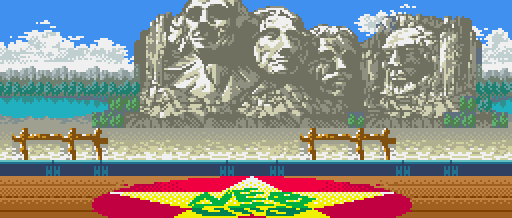
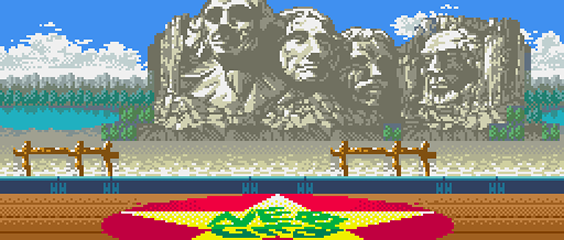
sdvdv

diff --git a/Game/fight.cpp b/Game/fight.cpp
@@ -5,14 +5,14 @@
 
 void Fight::Begin()
 {
-	ScreenScale = (Framework::System->GetDisplayHeight() / 218.0f); // 109.0f);
+	ScreenScale = (Framework::System->GetDisplayHeight() / 240.0f);
 
 	ArenaWidth = Framework::System->GetDisplayWidth() * 1.8f;
 	ArenaHeight = Framework::System->GetDisplayWidth() * 1.5f;
 	CameraX = ArenaWidth / 2;
 	CameraY = 0;
 
-	Background = spLoadSurfaceZoom("Resource/bkg_america_day.png", (int)(SP_ONE * ScreenScale));
+	Background = spLoadSurfaceZoom("Resource/bkg_america_day.png", (int)(SP_ONE * (ScreenScale / 3.0f)));
 
 	PlayerA = new Akuma();
 	PlayerA->Initialise( ScreenScale );
@@ -89,7 +89,7 @@ void Fight::Update()
 void Fight::Render()
 {
 	//spClearTarget( 0 );
-	spBlitSurface( 0, 0, -5, Background );
+	spBlitSurface( (Framework::System->GetDisplayWidth() / 2), Framework::System->GetDisplayHeight(), -2, Background );
 
 	PlayerA->Fighter_Render( CameraX - (Framework::System->GetDisplayWidth() / 2), CameraY );
 	PlayerB->Fighter_Render( CameraX - (Framework::System->GetDisplayWidth() / 2), CameraY );
